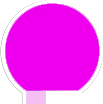
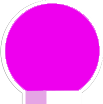
update

diff --git a/css/segmentation.min.css b/css/segmentation.min.css
@@ -178,6 +178,9 @@
 #sidebar .temper .sponser_height{
     height: 400px;
 }
+#sidebar .temper .humanpractice_height{
+    height: 400px;
+}
 
 #sidebar .list {
     margin-top: -30px;
@@ -194,12 +197,12 @@
     transition: height 0.4s ease-out
 }
 #sidebar .list .temper .color-team #mercury{
-    background: #9999FF;
-    background-image: -webkit-linear-gradient(top,#9999FF,#551A8B);
-    background-image: -moz-linear-gradient(top,#9999FF,#551A8B);
-    background-image: -ms-linear-gradient(top,#9999FF,#551A8B);
-    background-image: -o-linear-gradient(top,#9999FF,#551A8B);
-    background-image: linear-gradient(top,#9999FF,#551A8B);
+    background: #0099FF;
+    background-image: -webkit-linear-gradient(top,#0099FF,#551A8B);
+    background-image: -moz-linear-gradient(top,#0099FF,#551A8B);
+    background-image: -ms-linear-gradient(top,#0099FF,#551A8B);
+    background-image: -o-linear-gradient(top,#0099FF,#551A8B);
+    background-image: linear-gradient(top,#0099FF,#551A8B);
 }
 #sidebar .list .temper .color-notebook #mercury{
     background: #FFCC00;
@@ -210,20 +213,37 @@
     background-image: linear-gradient(top,#FFCC00,#8B6508);
 }
 #sidebar .list .temper .color-project #mercury{
-    background: #0099FF;
-    background-image: -webkit-linear-gradient(top,#0099FF,#008B8B);
-    background-image: -moz-linear-gradient(top,#0099FF,#008B8B);
-    background-image: -ms-linear-gradient(top,#0099FF,#008B8B);
-    background-image: -o-linear-gradient(top,#0099FF,#008B8B);
-    background-image: linear-gradient(top,#0099FF,#008B8B);
+    background: #9999FF;
+    background-image: -webkit-linear-gradient(top,#9999FF,#8B8386);
+    background-image: -moz-linear-gradient(top,#9999FF,#8B8386);
+    background-image: -ms-linear-gradient(top,#9999FF,#8B8386);
+    background-image: -o-linear-gradient(top,#9999FF,#8B8386);
+    background-image: linear-gradient(top,#9999FF,#8B8386);
 }
 #sidebar .list .temper .color-modeling #mercury{
+    background: #44CCFF;
+    background-image: -webkit-linear-gradient(top,#44CCFF,#528B8B);
+    background-image: -moz-linear-gradient(top,#44CCFF,#528B8B);
+    background-image: -ms-linear-gradient(top,#44CCFF,#528B8B);
+    background-image: -o-linear-gradient(top,#44CCFF,#528B8B);
+    background-image: linear-gradient(top,#44CCFF,#528B8B);
+}
+
+#sidebar .list .temper .color-humanpractice #mercury{
     background: #99CC33;
-    background-image: -webkit-linear-gradient(top,#99CC33,#006400);
-    background-image: -moz-linear-gradient(top,#99CC33,#006400);
-    background-image: -ms-linear-gradient(top,#99CC33,#006400);
-    background-image: -o-linear-gradient(top,#99CC33,#006400);
-    background-image: linear-gradient(top,#99CC33,#006400);
+    background-image: -webkit-linear-gradient(top,#99CC33,#6B8E23);
+    background-image: -moz-linear-gradient(top,#99CC33,#6B8E23);
+    background-image: -ms-linear-gradient(top,#99CC33,#6B8E23);
+    background-image: -o-linear-gradient(top,#99CC33,#6B8E23);
+    background-image: linear-gradient(top,#99CC33,#6B8E23);
+}
+#sidebar .list .temper .color-sponser #mercury{
+    background: #EE00EE;
+    background-image: -webkit-linear-gradient(top,#EE00EE,#8B008B);
+    background-image: -moz-linear-gradient(top,#EE00EE,#8B008B);
+    background-image: -ms-linear-gradient(top,#EE00EE,#8B008B);
+    background-image: -o-linear-gradient(top,#EE00EE,#8B008B);
+    background-image: linear-gradient(top,#EE00EE,#8B008B);
 }
 
 #sidebar .list .temper .temp-head-team{
@@ -257,19 +277,93 @@
     height: 70px;
 }
 
-#sidebar .list .temper .temp-body{
-    background: url('../img/temp-body.PNG');
+#sidebar .list .temper  .temp-head-human{
+    background: url('../img/temp-head-human.png');
+    background-repeat: no-repeat;
+    background-size: 70px;
+    height: 70px;
+}
+
+#sidebar .list .temper .temp-body-human{
+    background: url('../img/temp-body-human.PNG');
+    background-repeat: repeat-y;
+    background-size: 70px;
+    height: inherit;
+}
+#sidebar .list .temper .temp-body-team{
+    background: url('../img/temp-body-team.PNG');
+    background-repeat: repeat-y;
+    background-size: 70px;
+    height: inherit;
+}
+#sidebar .list .temper .temp-body-project{
+    background: url('../img/temp-body-project.PNG');
+    background-repeat: repeat-y;
+    background-size: 70px;
+    height: inherit;
+}
+#sidebar .list .temper .temp-body-notebook{
+    background: url('../img/temp-body-notebook.PNG');
+    background-repeat: repeat-y;
+    background-size: 70px;
+    height: inherit;
+}
+#sidebar .list .temper .temp-body-sponser{
+    background: url('../img/temp-body-sponser.PNG');
+    background-repeat: repeat-y;
+    background-size: 70px;
+    height: inherit;
+}
+#sidebar .list .temper .temp-body-modeling{
+    background: url('../img/temp-body-modeling.PNG');
     background-repeat: repeat-y;
     background-size: 70px;
     height: inherit;
 }
 
-#sidebar .list .temper .temp-tail{
-    background: url('../img/temp-tail.png');
+
+
+#sidebar .list .temper .temp-tail-human{
+    background: url('../img/temp-tail-human.png');
     background-repeat: no-repeat;
     background-size: 70px;
     height: 40px;
 }
+#sidebar .list .temper .temp-tail-team{
+    background: url('../img/temp-tail-team.png');
+    background-repeat: no-repeat;
+    background-size: 70px;
+    height: 40px;
+}
+
+#sidebar .list .temper .temp-tail-sponser{
+    background: url('../img/temp-tail-sponser.png');
+    background-repeat: no-repeat;
+    background-size: 70px;
+    height: 40px;
+}
+
+#sidebar .list .temper .temp-tail-project{
+    background: url('../img/temp-tail-project.png');
+    background-repeat: no-repeat;
+    background-size: 70px;
+    height: 40px;
+}
+
+#sidebar .list .temper .temp-tail-notebook{
+    background: url('../img/temp-tail-notebook.png');
+    background-repeat: no-repeat;
+    background-size: 70px;
+    height: 40px;
+}
+
+#sidebar .list .temper .temp-tail-modeling{
+    background: url('../img/temp-tail-modeling.png');
+    background-repeat: no-repeat;
+    background-size: 70px;
+    height: 40px;
+}
+
 
 
 

diff --git a/modeling.html b/modeling.html
@@ -56,8 +56,8 @@
                         <ul class="subnav">
                             <ul>
                                 <li><a href="#">Overview</a></li>
-                                <li><a href="#">Derivations</a></li>
-                                <li><a href="#">Matlab</a></li>
+                                <li><a href="#">Simulation Results</a></li>
+                                <li><a href="#">GRN Simulation</a></li>
                             </ul>
                         </ul>
                     </li>
@@ -106,12 +106,12 @@
             <div class="temper">
                 <div class="model_height">
                     <div class="temp-head-modeling"></div>
-                    <div class="temp-body">
+                    <div class="temp-body-modeling">
                         <div class="color-modeling">
                         <div id="mercury"></div>
                         </div>
                     </div>
-                    <div class="temp-tail"></div>
+                    <div class="temp-tail-modeling"></div>
                 </div>
 
 
@@ -124,27 +124,16 @@
 <ul>
     <li>
         <a href="javascript:void(0);" onclick="temper(1,'#overview')">Overview</a>
-        <ul>
-            <li><a href="javascript:void(0);" onclick="temper(2)">Modeling Goals</a></li>
-            <li><a href="javascript:void(0);" onclick="temper(3)">The Model</a></li>
-            <li><a href="javascript:void(0);" onclick="temper(4)">Implementation of the Model</a></li>
-        </ul>
     </li>
     <li>
-        <a href="javascript:void(0);" onclick="temper(5)">Derivations</a>
-        <ul>
-            <li><a href="javascript:void(0);" onclick="temper(6)">Documentation Preface</a></li>
-            <li><a href="javascript:void(0);" onclick="temper(7)">Experimental Data Analysis</a></li>
-            <li><a href="javascript:void(0);" onclick="temper(8)">Equilibrium Constants</a></li>
-            <li><a href="javascript:void(0);" onclick="temper(9)">Degradation</a></li>
-        </ul>
+        <a href="javascript:void(0);" onclick="temper(2)">Simulation Results</a>
     </li>
     <li>
-        <a href="javascript:void(0);" onclick="temper(6)">Matlab</a>
+        <a href="javascript:void(0);" onclick="temper(3)">GRN Simulation</a>
         <ul>
-            <li><a href="javascript:void(0);" onclick="temper(6)">Inputs</a></li>
-            <li><a href="javascript:void(0);" onclick="temper(6)">Walkthrough</a></li>
-            <li><a href="javascript:void(0);" onclick="temper(6)">Outputs</a></li>
+            <li><a href="javascript:void(0);" onclick="temper(4)">Net model based on Bayesian’s theory</a></li>
+            <li><a href="javascript:void(0);" onclick="temper(5)">ODE model</a></li>
+            <li><a href="javascript:void(0);" onclick="temper(6)">Stochastic ODE model</a></li>
         </ul>
     </li>
 </ul>
@@ -247,7 +236,7 @@
 </div>
         <div id="footer_bg">
          <div id="footer">
-            © Copyright BIT iGEM Team 2013, All Rights Reserved.
+            漏 Copyright BIT iGEM Team 2013, All Rights Reserved.
         </div>
         </div>   
 <script type="text/javascript" src="./js/empty.js"></script>

diff --git a/humanpractice.html b/humanpractice.html
@@ -104,17 +104,17 @@
         </div>
 
 
-        <div class="list" id="sponsership">
+        <div class="list" id="humanpractice">
 
             <div class="temper">
-                <div class="sponser_height">
-                <div class="temp-head-sponser"></div>
-                <div class="temp-body-sponser">
-                    <div class="color-sponser">
+                <div class="humanpractice_height">
+                <div class="temp-head-human"></div>
+                <div class="temp-body-human">
+                    <div class="color-humanpractice">
                     <div id="mercury"></div>
                     </div>
                 </div>
-                <div class="temp-tail-sponser"></div>
+                <div class="temp-tail-human"></div>
                 </div>
 
 
@@ -122,7 +122,7 @@
 
         <div class="navis">
 
-        <h2><a href="javascript:void(0);" onclick="temper(0, '#sponsership')">Sponser</a></h2>
+        <h2><a href="javascript:void(0);" onclick="temper(0, '#humanpractice')">HUMAN PRACTICE</a></h2>
     
 <ul>
     <li>
@@ -135,17 +135,13 @@
     </li>
     <li>
         <a href="javascript:void(0);" onclick="temper(5)">Derivations</a>
-        <ul>
-            <li><a href="javascript:void(0);" onclick="temper(6)">Documentation Preface</a></li>
-            <li><a href="javascript:void(0);" onclick="temper(7)">Experimental Data Analysis</a></li>
-        </ul>
+        
     </li>
     <li>
         <a href="javascript:void(0);" onclick="temper(6)">Matlab</a>
         <ul>
-            <li><a href="javascript:void(0);" onclick="temper(6)">Inputs</a></li>
-            <li><a href="javascript:void(0);" onclick="temper(6)">Walkthrough</a></li>
-            <li><a href="javascript:void(0);" onclick="temper(6)">Outputs</a></li>
+            <li><a href="javascript:void(0);" onclick="temper(8)">Inputs</a></li>
+            <li><a href="javascript:void(0);" onclick="temper(9)">Walkthrough</a></li>
         </ul>
     </li>
 </ul>
@@ -198,7 +194,7 @@
     </div>
 
 <script type="text/javascript" src="./js/empty.js"></script>
-<script type="text/javascript" src="./js/sponser_sidebar.js"></script>
+<script type="text/javascript" src="./js/human_sidebar.js"></script>
 
 </body>
 </html>

diff --git a/notebook.html b/notebook.html
@@ -58,11 +58,12 @@
                         <ul class="subnav">
                             <ul>
                                 <li><a href="#">Overview</a></li>
-                                <li><a href="#">Derivations</a></li>
-                                <li><a href="#">Matlab</a></li>
+                                <li><a href="#">Simulation Results</a></li>
+                                <li><a href="#">GRN Simulation</a></li>
                             </ul>
                         </ul>
                     </li>
+                    
                     <li class="navitem5">
                         <a href="./humanpractice.html">HUMAN PRACTICE</a>
                     </li>
@@ -108,12 +109,12 @@
             <div class="temper">
                 <div class="notebook_height">
                     <div class="temp-head-notebook"></div>
-                    <div class="temp-body">
+                    <div class="temp-body-notebook">
                         <div class="color-notebook">
                         <div id="mercury"></div>
                         </div>
                     </div>
-                    <div class="temp-tail"></div>
+                    <div class="temp-tail-notebook"></div>
                 </div>
 
             </div>

diff --git a/project.html b/project.html
@@ -57,8 +57,8 @@
                         <ul class="subnav">
                             <ul>
                                 <li><a href="#">Overview</a></li>
-                                <li><a href="#">Derivations</a></li>
-                                <li><a href="#">Matlab</a></li>
+                                <li><a href="#">Simulation Results</a></li>
+                                <li><a href="#">GRN Simulation</a></li>
                             </ul>
                         </ul>
                     </li>
@@ -107,12 +107,12 @@
             <div class="temper">
                 <div class="project_height">
                     <div class="temp-head-project"></div>
-                    <div class="temp-body">
+                    <div class="temp-body-project">
                         <div class="color-project">
                         <div id="mercury"></div>
                         </div>
                     </div>
-                    <div class="temp-tail"></div>
+                    <div class="temp-tail-project"></div>
                 </div>
 
             </div>

diff --git a/team.html b/team.html
@@ -61,8 +61,8 @@
                         <ul class="subnav">
                             <ul>
                                 <li><a href="#">Overview</a></li>
-                                <li><a href="#">Derivations</a></li>
-                                <li><a href="#">Matlab</a></li>
+                                <li><a href="#">Simulation Results</a></li>
+                                <li><a href="#">GRN Simulation</a></li>
                             </ul>
                         </ul>
                     </li>
@@ -112,12 +112,12 @@
             <div class="temper">
                 <div class="team_height">
                     <div class="temp-head-team"></div>
-                    <div class="temp-body">
+                    <div class="temp-body-team">
                         <div class="color-team">
                         <div id="mercury"></div>
                         </div>
                     </div>
-                    <div class="temp-tail"></div>
+                    <div class="temp-tail-team"></div>
                 </div>
             </div>
 

diff --git a/index.html b/index.html
@@ -69,8 +69,8 @@
                         <ul class="subnav">
                             <ul>
                                 <li><a href="#">Overview</a></li>
-                                <li><a href="#">Derivations</a></li>
-                                <li><a href="#">Matlab</a></li>
+                                <li><a href="#">Simulation Results</a></li>
+                                <li><a href="#">GRN Simulation</a></li>
                             </ul>
                         </ul>
                     </li>
